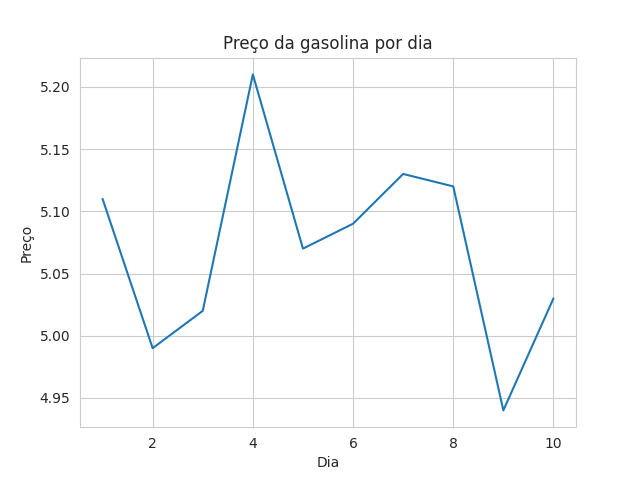
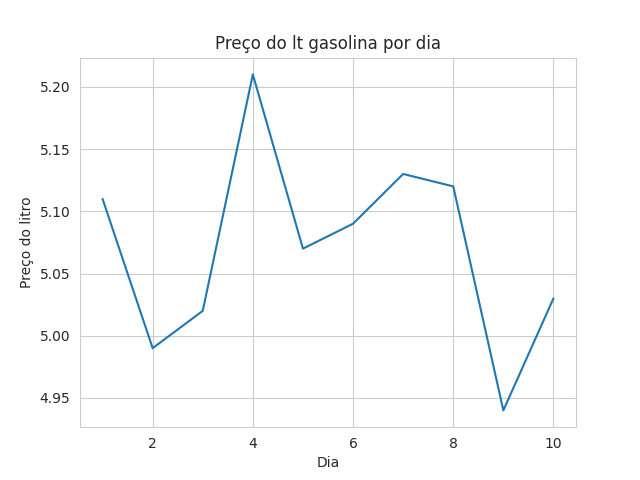
commit atualizando os arquivos gasolina.png e gasolina.csv

Changed region(s): [[0.3125, 0.0625, 0.6875, 0.125], [0.0312, 0.4062, 0.0625, 0.5938]]

diff --git a/gasolina.py b/gasolina.py
@@ -1,0 +1,8 @@
+import pandas as pd
+import seaborn as sns
+
+df = pd.read_csv('gasolina.csv')
+with sns.axes_style('whitegrid'):
+  grafico = sns.lineplot(data=df, x='dia', y='venda')
+grafico.set(title='Preço do lt gasolina por dia', xlabel='Dia', ylabel='Preço do litro')
+grafico.figure.savefig('gasolina.png')
